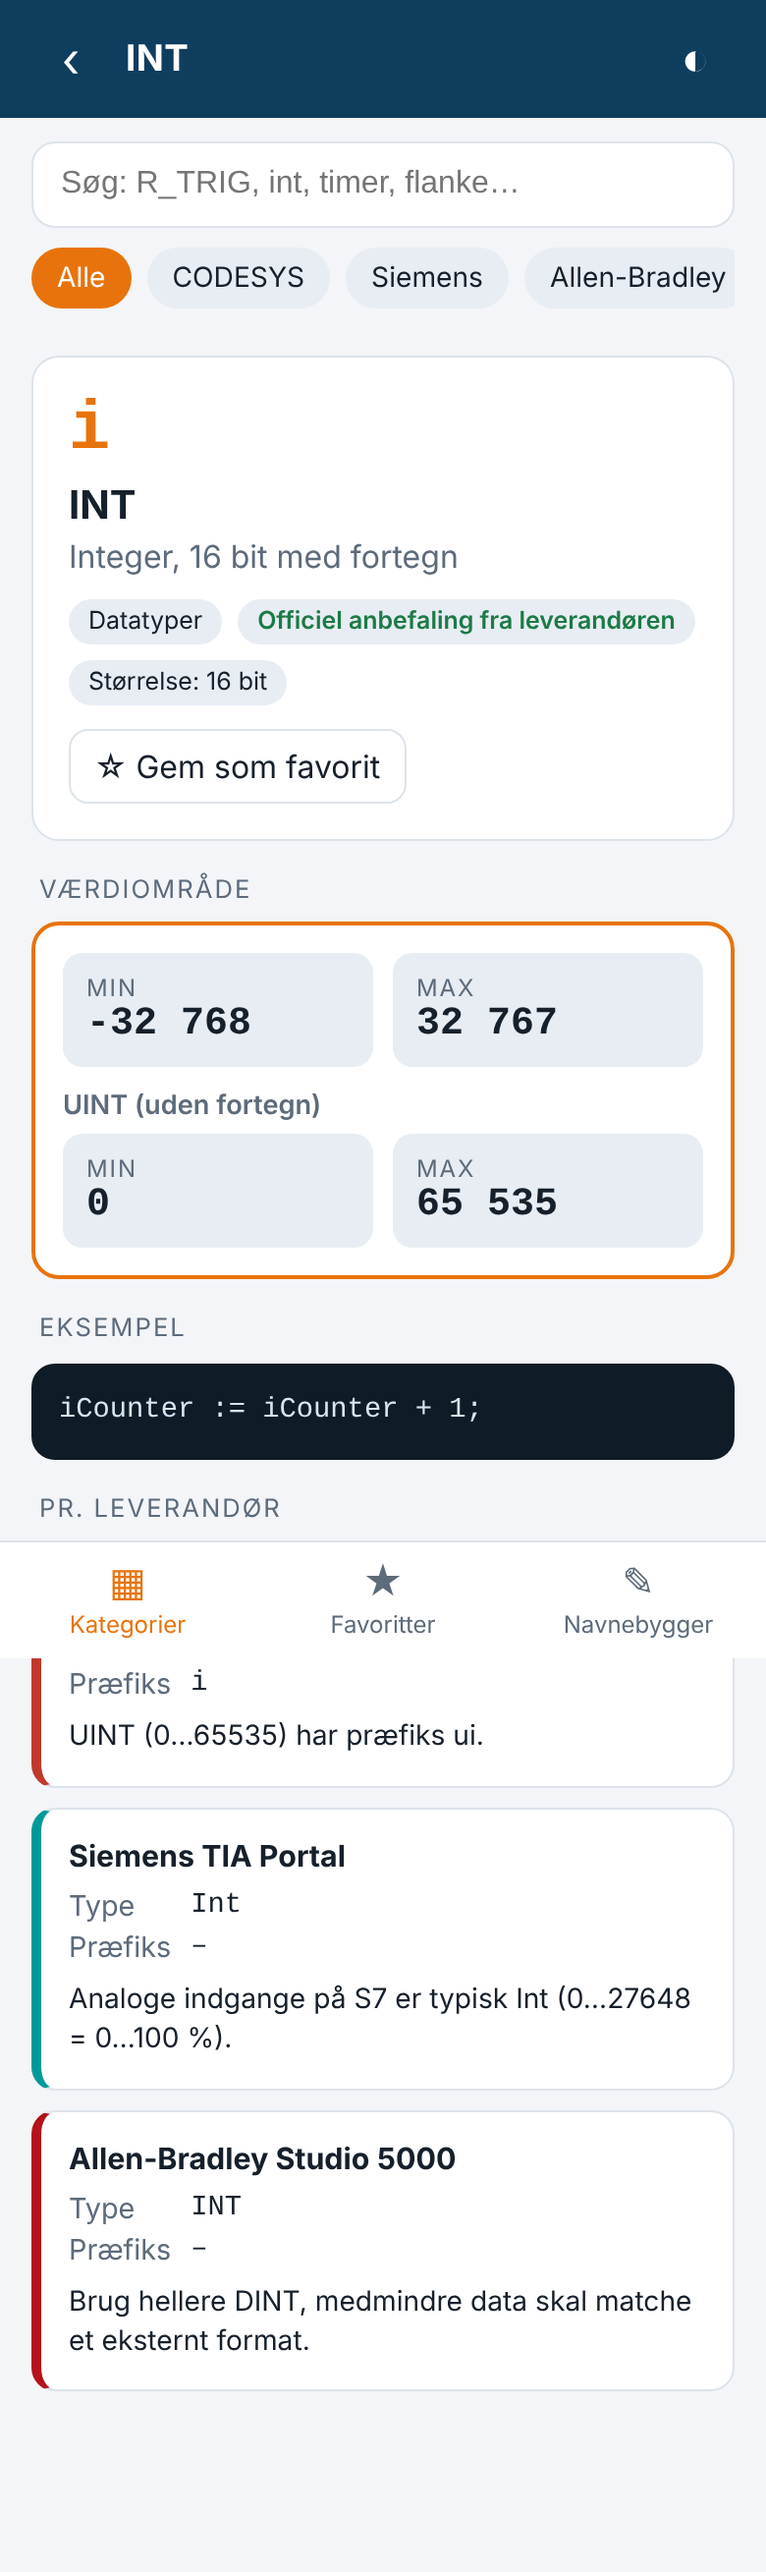
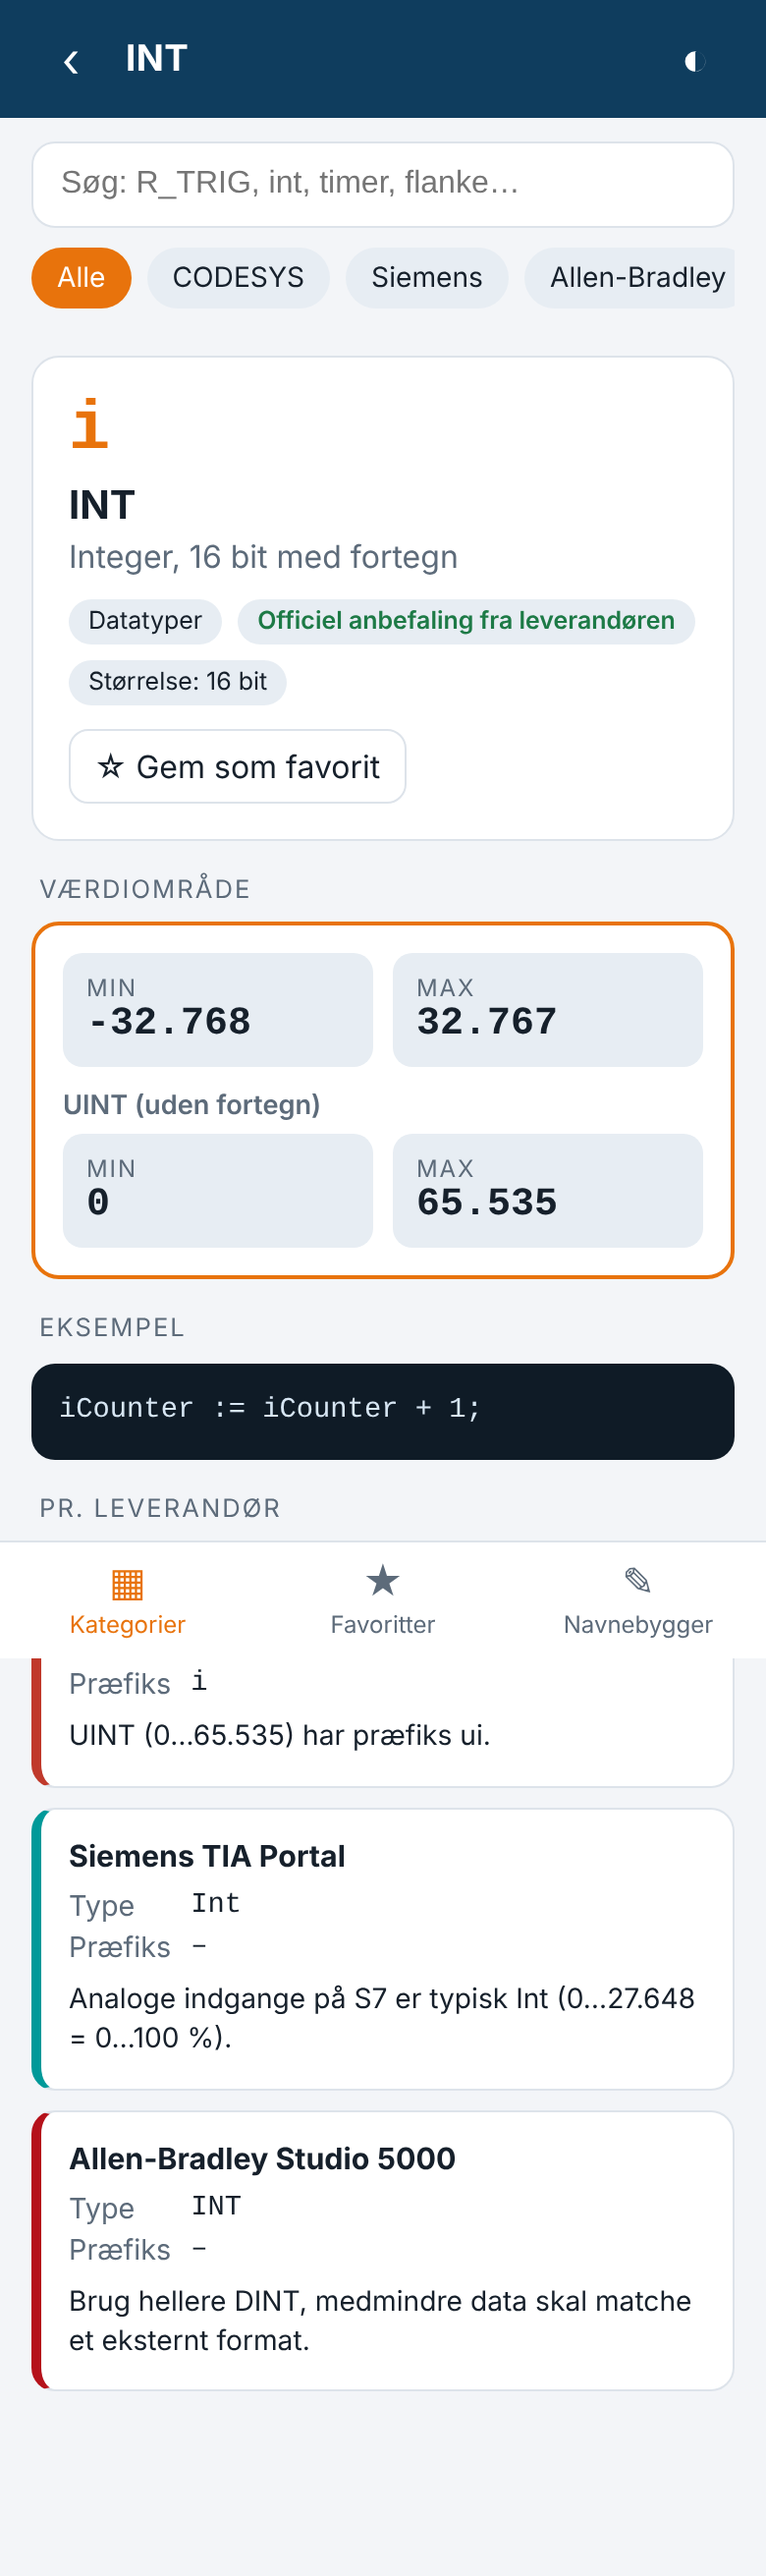
Brug punktum som tusindtalsseparator (65.535)
Claude-Session: https://claude.ai/code/session_01J21WHJHzTGDcs1Nazikvg5

diff --git a/sw.js b/sw.js
@@ -1,5 +1,5 @@
 // Service worker: gør appen tilgængelig offline. Hæv VERSION når filer ændres.
-const VERSION = 'plc-notation-v0.2.0';
+const VERSION = 'plc-notation-v0.2.1';
 const FILES = [
   './', 'index.html', 'styles.css', 'app.js', 'data/notation.json',
   'manifest.webmanifest', 'icons/icon.svg', 'icons/icon-192.png', 'icons/icon-512.png'
